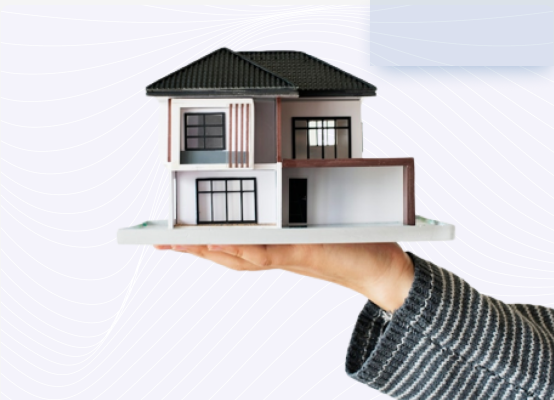
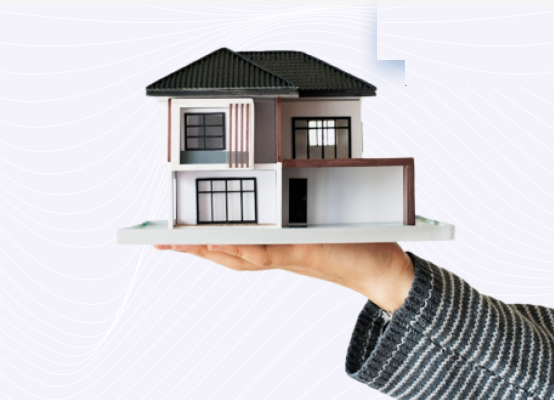
Add new feature more

Changed region(s): [[0.6751, 0.0, 1.0, 0.21]]

diff --git a/lib/propertyDefaults.js b/lib/propertyDefaults.js
@@ -71,7 +71,7 @@ const BY_CATEGORY = {
     about:
       'A Grade-A commercial address in one of Jaipur’s most connected business districts. The building combines efficient, column-free floor plates with a double-height lobby, high-speed lifts and dedicated visitor parking, making it equally suited to corporate headquarters, professional services firms and flagship retail.',
     amenities: [
-      ['check', 'On-site parking'],
+      ['car', 'On-site parking'],
       ['wifi', 'High-speed internet'],
       ['shopping', 'Nearby shopping'],
       ['coffee', 'Café & food court'],
@@ -99,7 +99,7 @@ const BY_CATEGORY = {
     about:
       'A thoughtfully planned home in a gated, tree-lined community with everything a family needs within a short walk. Bright, well-ventilated living spaces open onto private balconies, while the community clubhouse, landscaped gardens and round-the-clock security make everyday living effortless.',
     amenities: [
-      ['check', 'Covered parking'],
+      ['car', 'Covered parking'],
       ['wifi', 'Internet ready'],
       ['dumbbell', 'Gymnasium'],
       ['waves', 'Swimming pool'],
@@ -153,11 +153,48 @@ const BY_CATEGORY = {
 
 const fallback = (category) => BY_CATEGORY[category] || BY_CATEGORY.Commercial
 
+// Owners and admins pick amenities by name only ("Gym", "Visitor Parking",
+// "24×7 Security"…), so pick a matching glyph from the wording. First match
+// wins; anything unrecognised gets the plain tick.
+const ICON_RULES = [
+  ['wifi', /wi-?fi|internet|broadband/],
+  ['car', /parking|garage/],
+  ['shopping', /shop|market|mall|retail|grocer/],
+  ['coffee', /caf[eé]|restaurant|canteen|food/],
+  ['shield', /security|cctv|guard|fire|sprinkler|safety|gated/],
+  ['dumbbell', /gym|fitness|yoga/],
+  ['waves', /pool|swim|spa|jacuzzi/],
+  ['zap', /power|backup|electric|generator|ev\b|charging/],
+  ['heart', /child|kid|school|creche|day ?care|clinic|hospital|health/],
+  ['trees', /garden|park\b|lawn|green|tree/],
+  ['trophy', /sport|court|tennis|badminton|cricket|football|basketball|play/],
+  ['droplet', /water|rain|bore|drip|irrigation/],
+  ['sun', /solar|terrace|rooftop|sunlight/],
+  ['city', /club|lounge|hall|community|lift|elevator|lobby/],
+  ['train', /metro|station|rail/],
+  ['plane', /airport/],
+  ['sprout', /soil|farm|organic|crop/],
+]
+export function iconForLabel(label = '') {
+  const l = String(label).toLowerCase()
+  const hit = ICON_RULES.find(([, re]) => re.test(l))
+  return hit ? hit[0] : 'check'
+}
+
+// Icon keys components/property/icons.js can draw. Older listings carry
+// icon names from a previous scheme; those are ignored in favour of the label.
+const KNOWN_ICONS = new Set([
+  'activity', 'battery', 'car', 'check', 'city', 'coffee', 'droplet', 'dumbbell', 'heart', 'pin',
+  'plane', 'rain', 'shield', 'shopping', 'sprout', 'sun', 'train', 'trees', 'trending', 'trophy',
+  'waves', 'wifi', 'zap',
+])
+const resolveIcon = (a) => (a.icon && KNOWN_ICONS.has(a.icon) && a.icon !== 'check' ? a.icon : iconForLabel(a.label))
+
 // Fill in whatever the listing itself left blank.
 export function withDefaults(d) {
   const f = fallback(d.category)
   const amenities = d.amenities?.length
-    ? d.amenities.map((a) => ({ icon: a.icon || 'check', label: a.label }))
+    ? d.amenities.map((a) => ({ icon: resolveIcon(a), label: a.label }))
     : f.amenities.map(([icon, label]) => ({ icon, label }))
 
   return {

diff --git a/components/assistant/AssistantLauncher.jsx b/components/assistant/AssistantLauncher.jsx
@@ -1,35 +1,22 @@
 'use client'
 
-import { useEffect, useState } from 'react'
 import { MessageCircle } from 'lucide-react'
 import { useAssistant } from './AssistantProvider'
 
-// Floating "Find property" button pinned to the right edge of the home page,
-// so the Help Desk is one click away however far the visitor has scrolled.
-// It steps aside while the in-page button (`watch`) is on screen, and while
-// the panel itself is open.
-export default function AssistantLauncher({ watch }) {
+// Floating "Find property" button in the lower-right of the home page — the
+// same distance from the bottom as from the right edge — so the Help Desk is
+// one click away however far the visitor has scrolled. Steps aside while the
+// panel itself is open.
+export default function AssistantLauncher() {
   const { open, openAssistant } = useAssistant()
-  const [inlineVisible, setInlineVisible] = useState(false)
-
-  useEffect(() => {
-    if (!watch) return
-    const el = document.getElementById(watch)
-    if (!el || typeof IntersectionObserver === 'undefined') return
-    const io = new IntersectionObserver(([e]) => setInlineVisible(e.isIntersecting), { threshold: 0.4 })
-    io.observe(el)
-    return () => io.disconnect()
-  }, [watch])
-
-  const hidden = open || inlineVisible
 
   return (
     <button
       type="button"
       onClick={openAssistant}
       aria-label="Find property — open the Help Desk"
-      className={`fixed right-4 top-[58%] z-[80] inline-flex -translate-y-1/2 items-center gap-2 rounded-lg bg-brand-800 px-4 py-3 text-[14px] font-semibold text-white shadow-[0_10px_30px_-8px_rgba(8,26,51,0.65)] transition-all duration-300 hover:bg-navy-700 sm:right-6 sm:px-5 sm:py-[18px] sm:text-[15px] ${
-        hidden ? 'pointer-events-none translate-x-6 opacity-0' : 'translate-x-0 opacity-100'
+      className={`fixed bottom-6 right-6 z-[80] inline-flex items-center gap-2 rounded-lg bg-brand-800 px-4 py-3 text-[14px] font-semibold text-white shadow-[0_10px_30px_-8px_rgba(8,26,51,0.65)] transition-all duration-300 hover:bg-navy-700 sm:bottom-8 sm:right-8 sm:px-5 sm:py-[18px] sm:text-[15px] ${
+        open ? 'pointer-events-none translate-y-3 opacity-0' : 'translate-y-0 opacity-100'
       }`}
     >
       <MessageCircle className="h-[18px] w-[18px]" aria-hidden="true" />

diff --git a/components/WhyJoinUs.jsx b/components/WhyJoinUs.jsx
@@ -1,11 +1,4 @@
-'use client'
-
-import { MessageCircle } from 'lucide-react'
-import { useAssistant } from '@/components/assistant/AssistantProvider'
-
 export default function WhyJoinUs() {
-  const { openAssistant } = useAssistant()
-
   return (
     <section className="mt-10 bg-white sm:mt-14">
       <div className="mx-auto max-w-7xl px-4 py-10 sm:px-6 lg:py-4">
@@ -28,8 +21,9 @@ export default function WhyJoinUs() {
             </p>
           </div>
 
-          {/* the artwork carries its own pale background and line pattern */}
-          <div className="relative mx-auto w-full max-w-[554px] lg:ml-auto lg:mr-0">
+          {/* the artwork carries its own pale background and line pattern;
+              the "Find property" shortcut is the floating button on the page */}
+          <div className="mx-auto w-full max-w-[554px] lg:ml-auto lg:mr-0">
             <img
               src="/why-join-us.png"
               alt="A hand holding a model house"
@@ -37,16 +31,6 @@ export default function WhyJoinUs() {
               height={400}
               className="block h-auto w-full"
             />
-            {/* shortcut straight into search, sitting over the image */}
-            <button
-              id="why-join-find-property"
-              type="button"
-              onClick={openAssistant}
-              className="absolute right-1.5 top-0 inline-flex items-center gap-2.5 rounded-md bg-brand-800 px-4 py-3 text-[14px] font-semibold text-white shadow-[0_8px_24px_-10px_rgba(8,26,51,0.6)] transition hover:bg-navy-700 sm:px-5 sm:py-[18px] sm:text-[15px]"
-            >
-              <MessageCircle className="h-[18px] w-[18px]" aria-hidden="true" />
-              Find property
-            </button>
           </div>
         </div>
       </div>

diff --git a/components/TalkToExpert.jsx b/components/TalkToExpert.jsx
@@ -78,9 +78,10 @@ export default function TalkToExpert() {
           })}
         </div>
 
-        <div className="mt-8 flex justify-center">
-          <Link href="/experts" className="inline-flex items-center gap-1.5 rounded-full bg-white px-5 py-2.5 text-[13px] font-semibold text-navy-800 transition hover:bg-sky-50">
-            View all experts <ArrowRight className="h-4 w-4" />
+        <div className="mt-10 flex justify-center lg:mt-12">
+          {/* outlined pill on the navy band, as in the design */}
+          <Link href="/experts" className="inline-flex items-center gap-3 rounded-full border-[1.5px] border-white/45 bg-white/10 px-6 py-2.5 text-[15px] font-semibold text-white transition hover:border-white hover:bg-white/20 sm:px-8 sm:py-3 sm:text-[17px] lg:px-9 lg:py-3.5 lg:text-[19px]">
+            View all experts <ArrowRight className="h-[18px] w-[18px] sm:h-5 sm:w-5" strokeWidth={2.5} />
           </Link>
         </div>
       </div>

diff --git a/components/FeaturedProperties.jsx b/components/FeaturedProperties.jsx
@@ -5,13 +5,24 @@ import { dbConnect } from '@/lib/db'
 import Property from '@/lib/models/Property'
 import { toPropertyCard } from '@/lib/serialize'
 
+const COUNT = 6
+
+// Always a full two rows of three: featured listings first, then the newest
+// active listings to top the grid up when fewer than six are flagged.
 async function getFeatured() {
   try {
     await dbConnect()
     const docs = await Property.find({ status: 'active', featured: true })
       .sort({ createdAt: -1 })
-      .limit(6)
+      .limit(COUNT)
       .lean()
+    if (docs.length < COUNT) {
+      const fill = await Property.find({ status: 'active', _id: { $nin: docs.map((d) => d._id) } })
+        .sort({ createdAt: -1 })
+        .limit(COUNT - docs.length)
+        .lean()
+      docs.push(...fill)
+    }
     if (docs.length) return docs.map(toPropertyCard)
   } catch {
     // DB unavailable — fall back to static content so the page still renders.

diff --git a/components/Stats.jsx b/components/Stats.jsx
@@ -9,7 +9,7 @@ export default function Stats() {
             key={s.label}
             className={`px-2 lg:px-0 ${i !== 0 ? 'lg:border-l lg:border-slate-300 lg:pl-[60px]' : ''}`}
           >
-            <div className={`font-display text-[28px] font-bold leading-none sm:text-[34px] lg:text-[40px] ${s.color || 'text-brand'}`}>{s.value}</div>
+            <div className={`font-sans text-[28px] font-bold leading-none sm:text-[34px] lg:text-[40px] ${s.color || 'text-brand'}`}>{s.value}</div>
             <div className="mt-3 text-[12px] font-bold uppercase tracking-[0.04em] text-[#0A0A0A] sm:text-[13px]">
               {s.label}
             </div>

diff --git a/components/property/icons.js b/components/property/icons.js
@@ -2,6 +2,7 @@ import {
   Activity,
   BatteryCharging,
   Building2,
+  Car,
   Check,
   CloudRain,
   Coffee,
@@ -17,6 +18,7 @@ import {
   TrainFront,
   Trees,
   TrendingUp,
+  Trophy,
   Waves,
   Wifi,
   Zap,
@@ -26,6 +28,7 @@ import {
 const ICONS = {
   activity: Activity,
   battery: BatteryCharging,
+  car: Car,
   check: Check,
   city: Building2,
   coffee: Coffee,
@@ -42,6 +45,7 @@ const ICONS = {
   train: TrainFront,
   trees: Trees,
   trending: TrendingUp,
+  trophy: Trophy,
   waves: Waves,
   wifi: Wifi,
   zap: Zap,

diff --git a/app/page.jsx b/app/page.jsx
@@ -35,8 +35,8 @@ export default function Home() {
       <Reveal><BottomCTA /></Reveal>
       <Footer />
 
-      {/* follows the visitor down the page; hides while the Why Join Us button is on screen */}
-      <AssistantLauncher watch="why-join-find-property" />
+      {/* follows the visitor down the page */}
+      <AssistantLauncher />
     </main>
   )
 }
